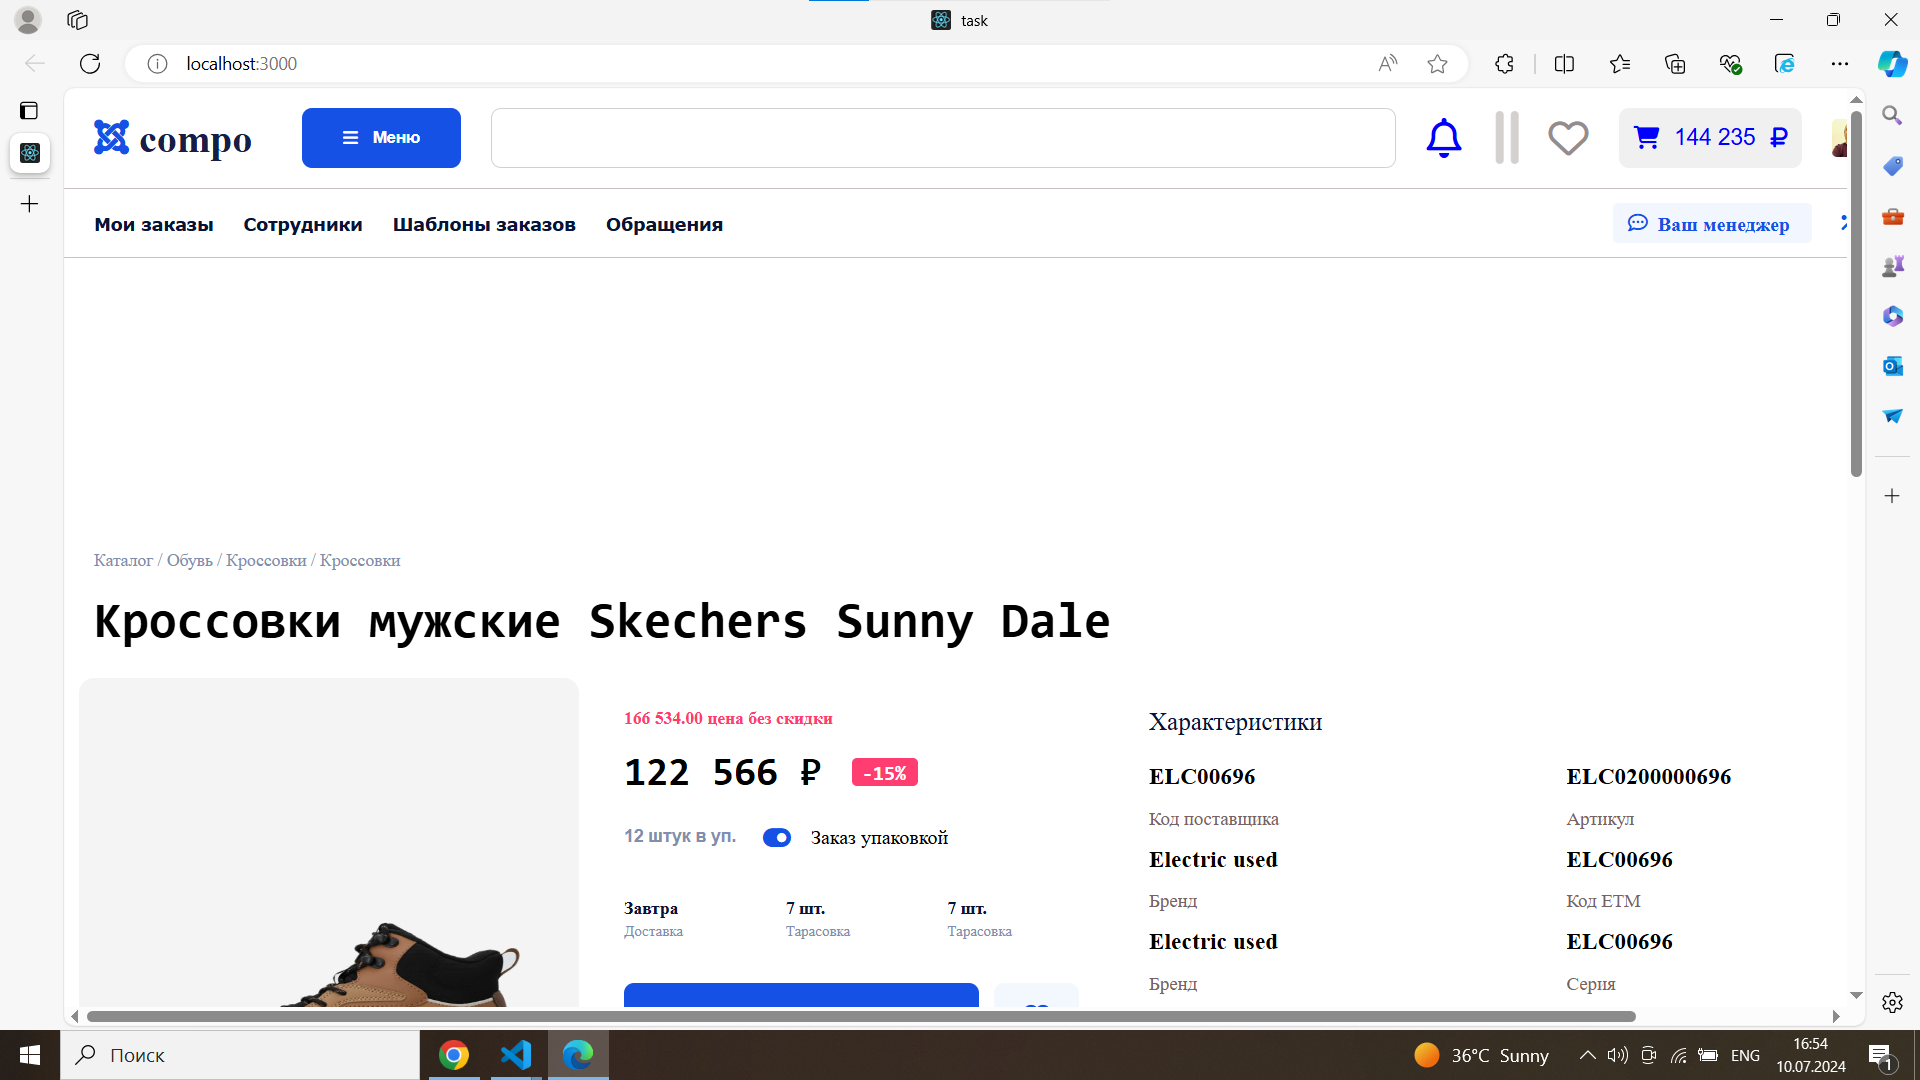
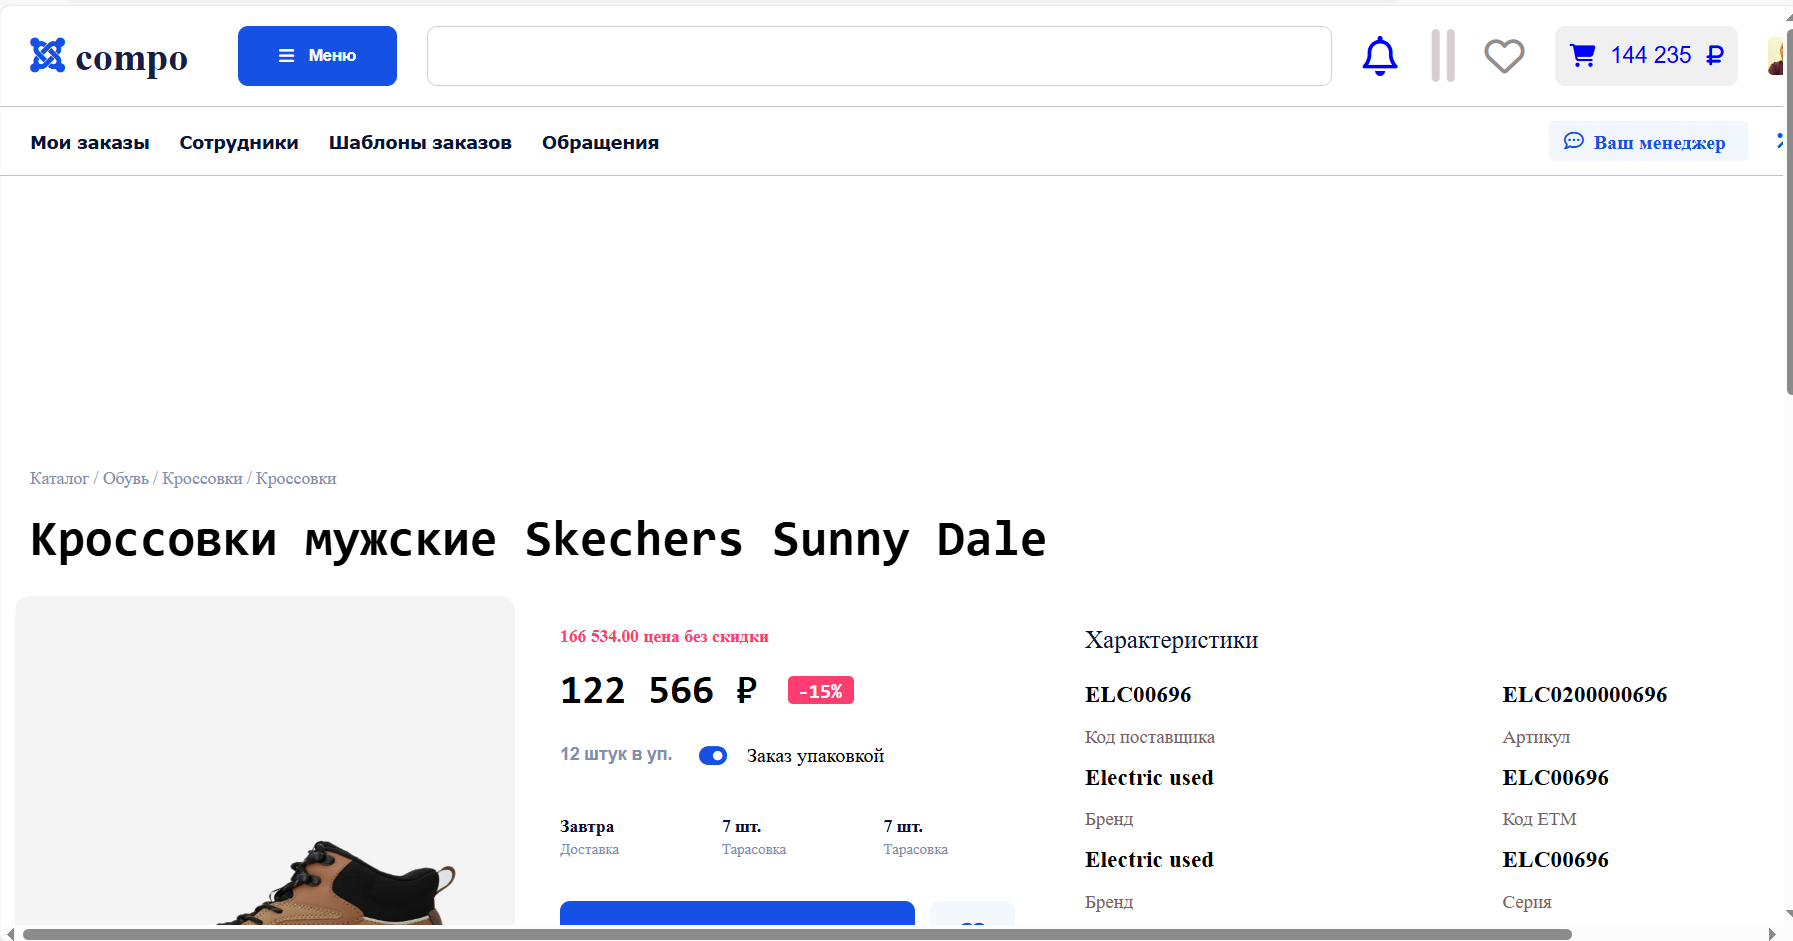
v1.2.1

diff --git a/src/css/style.css b/src/css/style.css
@@ -1,41 +1,6 @@
-* {
-  margin: 0;
-  padding: 0;
-  box-sizing: border-box;
-  font-family: inherit
-}
-
-html {
-  font-size: 62.5%;
-  scroll-behavior: smooth
-}
-
-@media only screen and (max-width: 75em) {
-  html {
-    font-size: 59%
-  }
-}
-
-@media only screen and (max-width: 56.25em) {
-  html {
-    font-size: 56%;
-  }
-}
-
-@media only screen and (min-width: 112.5em) {
-  html {
-    font-size: 65%
-  }
-}
-
-body {
-  box-sizing: border-box;
-  position: relative;
-  line-height: 1.5;
-  font-family: sans-serif;
-  overflow: auto;
-  font-family: 'Source Sans Pro', sans-serif
-}
+@import url('./root.css');
+@import url('./course.css');
+@import url('./icons.css');
 
 a {
   text-decoration: none;
@@ -942,41 +907,4 @@ textarea {
     opacity: 0;
     top: 27px
   }
-}
-
-i {
-  font-size: 20px;
-  margin-left: 10px;
-}
-
-.fa-facebook {
-  color: #7843E9;
-}
-
-.fa-instagram {
-  color: rgb(225, 21, 143);
-}
-
-.fa-linkedin {
-  color: rgb(3, 3, 72);
-}
-
-.fa-youtube {
-  color: rgb(225, 71, 66);
-}
-
-.fa-whatsapp {
-  color: green;
-}
-
-.fa-mobile {
-  color: rgb(84, 84, 15);
-}
-
-.error {
-  font-size: 12px;
-  float: left;
-  margin-left: 10px;
-  color: red;
-  font-weight: 800;
 }

diff --git a/index.html b/index.html
@@ -1,4 +1,3 @@
-<!DOCTYPE html>
 <html lang="en">
 
 <head>
@@ -7,7 +6,6 @@
     <link rel="stylesheet" href="./src/css/style.css">
     <title>Anar Gasimov</title>
     <script src="https://kit.fontawesome.com/c378ec51b4.js" crossorigin="anonymous"></script>
-    <link rel="stylesheet" href="./src/css/course.css">
 
 </head>
 
@@ -20,7 +18,7 @@
         <div class="header__content">
             <div class="header__logo-container">
                 <div class="header__logo-img-cont">
-                    <img src="./src/images/loqo.jpg" alt="Logo" class="header__logo-img">
+                    <img src="./src/images/photo_2024-05-17_19-50-40.jpg" alt="Logo" class="header__logo-img">
                 </div>
             </div>
             <div class="header__main">

diff --git a/src/css/root.css b/src/css/root.css
@@ -1,0 +1,39 @@
+* {
+    margin: 0;
+    padding: 0;
+    box-sizing: border-box;
+    font-family: inherit
+  }
+  
+  html {
+    font-size: 62.5%;
+    scroll-behavior: smooth
+  }
+  
+  @media only screen and (max-width: 75em) {
+    html {
+      font-size: 59%
+    }
+  }
+  
+  @media only screen and (max-width: 56.25em) {
+    html {
+      font-size: 56%;
+    }
+  }
+  
+  @media only screen and (min-width: 112.5em) {
+    html {
+      font-size: 65%
+    }
+  }
+  
+  body {
+    box-sizing: border-box;
+    position: relative;
+    line-height: 1.5;
+    font-family: sans-serif;
+    overflow: auto;
+    font-family: 'Source Sans Pro', sans-serif
+  }
+  

diff --git a/src/css/icons.css b/src/css/icons.css
@@ -1,0 +1,36 @@
+i {
+    font-size: 20px;
+    margin-left: 10px;
+  }
+  
+  .fa-facebook {
+    color: #7843E9;
+  }
+  
+  .fa-instagram {
+    color: rgb(225, 21, 143);
+  }
+  
+  .fa-linkedin {
+    color: rgb(3, 3, 72);
+  }
+  
+  .fa-youtube {
+    color: rgb(225, 71, 66);
+  }
+  
+  .fa-whatsapp {
+    color: green;
+  }
+  
+  .fa-mobile {
+    color: rgb(84, 84, 15);
+  }
+  
+  .error {
+    font-size: 12px;
+    float: left;
+    margin-left: 10px;
+    color: red;
+    font-weight: 800;
+  }

diff --git a/src/js/main.js b/src/js/main.js
@@ -61,7 +61,7 @@ send.onclick = () => {
     else {
         phonerror.innerText = "";
     }
-    if (phone.value.length > 1 && phone.value.length < 9) {
+    if (phone.value.length != "" && phone.value.length < 9 || phone.value.length > 10) {
         phonerror.innerText = "*Nömrəniz formata uyğun deyil!"
     }
     else {
